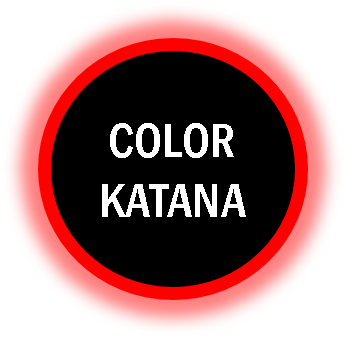
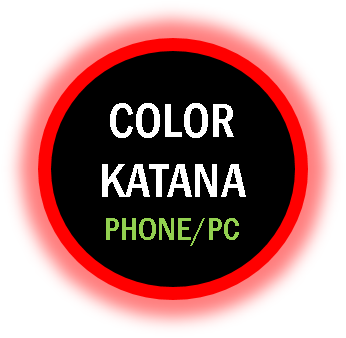
Add files via upload

Changed region(s): [[0.289, 0.2959, 0.7225, 0.7396]]

diff --git a/contact.html b/contact.html
@@ -3,7 +3,7 @@
     <body bgcolor="black">
         <div horizontal layout>
             <div>        <a href="index.html">
-                <img border="0" src="logo1.png" alt="SOULTALE" width="500" height="200">
+                <img border="0" src="logo3.png" alt="SOULTALE" width="500" height="200">
                 </a>         </div>
             <div>        <a href="https://mail.google.com/mail/u/0/#inbox?compose=GTvVlcRwRQKmhXbZzWrRhRSZbFRnwcGSJlTRNPqJDbpmGNxvPfkkZRjsFzGvVSjstBLlMxPtCrWXq">
                 <img border="0" src="gmail.png" alt="SOULTALE" width="800" height="300">

diff --git a/qr.html b/qr.html
@@ -1,0 +1,10 @@
+<html>
+    <head><title>SOUL TALE-CONTACT</title></head>
+    <body bgcolor="black">
+        <div horizontal layout>
+            <div>        <a href="index.html">
+                <img border="0" src="logo1.png" alt="SOULTALE" width="250" height="100">
+                </a>         </div>
+          </div>
+          <img border="0" src="qr.png" alt="qr" width="600" height="600">
+    </body>

diff --git a/Gamespage.html b/Gamespage.html
@@ -3,7 +3,7 @@
     <body bgcolor="black">
         <div horizontal layout>
             <div>        <a href="index.html">
-                <img border="0" src="logo1.png" alt="SOULTALE" width="500" height="200">
+                <img border="0" src="logo2.png" alt="SOULTALE" width="800" height="200">
                 </a>         </div>
           </div>
           <a href="ColorKatana.html">

diff --git a/index.html b/index.html
@@ -15,4 +15,7 @@
                 <a href="Gamespage.html">
                     <img border="0" alt="games" src="games.png" width="200" height="200">
                     </a>
+                    <a href="qr.html">
+                        <img border="0" alt="qr" src="phone.png" width="200" height="200">
+                        </a>
     </body>
